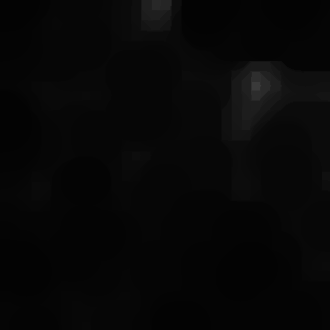
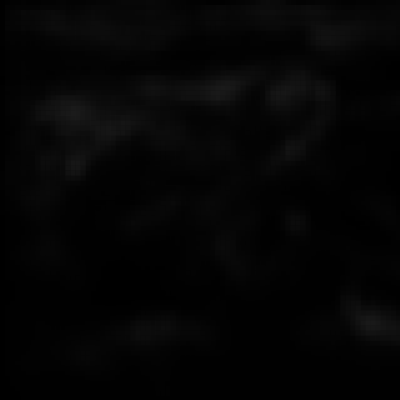
Improved method of proposals

Changed region(s): [[0.7273, 0.2121, 0.8485, 0.303], [0.4242, 0.0, 0.5152, 0.0606]]

diff --git a/proposal-based/main.py b/proposal-based/main.py
@@ -9,32 +9,37 @@ img2 = cv2.imread(DATAPATH+'1_2.tif',cv2.IMREAD_GRAYSCALE)
 img1_mask = cv2.imread(DATAPATH+'1_1_mask.tif',cv2.IMREAD_GRAYSCALE)
 img2_mask = cv2.imread(DATAPATH+'1_2_mask.tif',cv2.IMREAD_GRAYSCALE)
 
-img1 = cv2.resize(img1, (330,330))
-img2 = cv2.resize(img2, (330,330))
-img1_mask = cv2.resize(img1_mask, (330,330))
-img2_mask = cv2.resize(img2_mask, (330,330))
+
+i_w = 400
+w_w = 20
+w_s = 5
+
+img1 = cv2.resize(img1, (i_w,i_w))
+img2 = cv2.resize(img2, (i_w,i_w))
+img1_mask = cv2.resize(img1_mask, (i_w,i_w))
+img2_mask = cv2.resize(img2_mask, (i_w,i_w))
 
 img1 = img1.astype(np.float32)/255.0
 img2 = img2.astype(np.float32)/255.0
 img1_mask = img1_mask.astype(np.float32)/255.0
 img2_mask = img2_mask.astype(np.float32)/255.0
 
-img1_windows = sw.sliding_window(img1, (30,30),(10,10))
-img2_windows = sw.sliding_window(img2, (30,30),(10,10))
-img1_mask_windows = sw.sliding_window(img1_mask, (30,30),(10,10))
-img2_mask_windows = sw.sliding_window(img2_mask, (30,30),(10,10))
+img1_windows = sw.sliding_window(img1, (w_w,w_w),(w_s,w_s))
+img2_windows = sw.sliding_window(img2, (w_w,w_w),(w_s,w_s))
+img1_mask_windows = sw.sliding_window(img1_mask, (w_w,w_w),(w_s,w_s))
+img2_mask_windows = sw.sliding_window(img2_mask, (w_w,w_w),(w_s,w_s))
 
 img1_windows = img1_windows.reshape(img1_windows.shape[0], img1_windows.shape[1]*img1_windows.shape[2])
 img2_windows = img1_windows.reshape(img2_windows.shape[0], img2_windows.shape[1]*img2_windows.shape[2])
-img1_mask_windows_labels = np.array([w.sum()/900.0 > 0.5 for w in img1_mask_windows]).reshape(img1_mask_windows.shape[0])
-img2_mask_windows_labels = np.array([w.sum()/900.0 > 0.5 for w in img2_mask_windows]).reshape(img2_mask_windows.shape[0])
+img1_mask_windows_labels = np.array([w.sum()/(w_w*w_w) > 0.5 for w in img1_mask_windows]).reshape(img1_mask_windows.shape[0])
+img2_mask_windows_labels = np.array([w.sum()/(w_w*w_w) > 0.5 for w in img2_mask_windows]).reshape(img2_mask_windows.shape[0])
 
 classifier = LR().fit(img1_windows, img1_mask_windows_labels)
 
 print classifier.score(img2_windows, img2_mask_windows_labels)
 
 img2_windows_labels = classifier.predict_proba(img2_windows)
-img2_windows_labels = img2_windows_labels.reshape(31,31,2)
+img2_windows_labels = img2_windows_labels.reshape(1+(i_w-w_w)//w_s,1+(i_w-w_w)//w_s,2)
 
 def get_interval_begins(x, w, s, N):
     p = []
@@ -49,12 +54,12 @@ def get_interval_begins(x, w, s, N):
             i = i+ 1
     return p
 
-img = [list(w) for w in list(np.zeros(shape=(330,330)))]
+img = [list(w) for w in list(np.zeros(shape=(i_w,i_w)))]
 
-for j in range(330):
-    for i in range(330):
-        ilist = get_interval_begins(i, 30, 10, 330)
-        jlist = get_interval_begins(j, 30, 10, 330)
+for j in range(i_w):
+    for i in range(i_w):
+        ilist = get_interval_begins(i, w_w, w_s, i_w)
+        jlist = get_interval_begins(j, w_w, w_s, i_w)
         points = []
         for jp in jlist:
             for ip in ilist:
@@ -62,18 +67,21 @@ for j in range(330):
         if points != []:
             img[i][j] = points
 
-mask = [list(w) for w in list(np.zeros(shape=(330,330)))]
+mask = [list(w) for w in list(np.zeros(shape=(i_w,i_w)))]
 
-for j in range(330):
-    for i in range(330):
+for j in range(i_w):
+    for i in range(i_w):
         windows_list = img[i][j]
-        mask[i][j] = sum([img2_windows_labels[r][s][1] for r,s in windows_list ])/len(windows_list)
+        if windows_list!=0:
+            mask[i][j] = np.sum([img2_windows_labels[r][s][1] for r,s in windows_list ])/len(windows_list)
+        else:
+            mask[i][j] = 0
 
 mask = np.array(mask)
-# mask = (mask.squeeze()*255).astype(np.uint8)
+mask_true = (mask.squeeze()*255).astype(np.uint8)
 kernel = cv2.getStructuringElement(cv2.MORPH_ELLIPSE,(50,50))
-# mask = cv2.morphologyEx(mask, cv2.MORPH_CLOSE, kernel)
-# cv2.imwrite("poo.png",mask)
+mask = cv2.morphologyEx(mask_true, cv2.MORPH_CLOSE, kernel)
+cv2.imwrite("poo.png",mask_true)
 
 import numpy as np
 import os
@@ -92,10 +100,11 @@ pca2 = joblib.load('pca.pkl')
 
 
 Y128 = cv2.resize(mask.squeeze(), (128, 128))
-Y128 = Y128*255
-Y_r = pca2.transform(Y128.reshape(-1))
+Y128 = Y128*255 > 128
+Y_r = pca2.transform(Y128.reshape(1,-1))
 corr_mask = pca2.inverse_transform(Y_r).reshape(128, 128)
-corr_mask = cv2.resize(mask, (330, 330)) > 0.5
+corr_mask = cv2.resize(corr_mask.squeeze()/corr_mask.max(), (i_w, i_w)) > 0.6
+corr_mask = corr_mask*255
 corr_mask = corr_mask.astype(np.uint8)
 corr_mask = cv2.morphologyEx(corr_mask, cv2.MORPH_CLOSE, kernel)
 cv2.imwrite("poo_corr.png",corr_mask)
